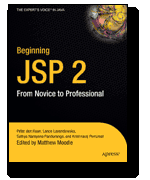
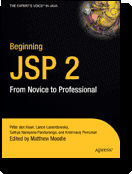
Crop drop shadows from book cover thumbnails
The old renders carried a pre-transparency-era drop shadow that
clashed with the site's flat look. Crop each cover to its hard edge
(matching the original un-shadowed GIF dimensions) and swap the CSS
box-shadow for a thin rule border consistent with the rest of the
page.

diff --git a/index.html b/index.html
@@ -226,21 +226,21 @@
 
     <ul class="works">
       <li>
-        <img class="works__cover" src="cover-jsp2.png" alt="" width="150" height="180" loading="lazy">
+        <img class="works__cover" src="cover-jsp2.png" alt="" width="132" height="174" loading="lazy">
         <div>
           <h3>Beginning JSP 2.0</h3>
           <p>Apress, 2004. Co-authored.</p>
         </div>
       </li>
       <li>
-        <img class="works__cover" src="cover-java-networking.png" alt="" width="150" height="180" loading="lazy">
+        <img class="works__cover" src="cover-java-networking.png" alt="" width="119" height="150" loading="lazy">
         <div>
           <h3>Beginning Java Networking</h3>
           <p>Wrox, 2001. Co-authored.</p>
         </div>
       </li>
       <li>
-        <img class="works__cover" src="cover-thesis.png" alt="" width="150" height="180" loading="lazy">
+        <img class="works__cover" src="cover-thesis.png" alt="" width="106" height="151" loading="lazy">
         <div>
           <h3><a href="thesis.pdf">Aspects of QED renormalization in anti-de Sitter space</a></h3>
           <p>Doctoral thesis. Nijmegen University Press, 2001. <a href="thesis.pdf">Download PDF</a>.</p>

diff --git a/styles.css b/styles.css
@@ -284,7 +284,7 @@ main{
   flex:none;
   width:2.6rem;
   height:auto;
-  box-shadow:0 1px 3px rgba(0,0,0,.25);
+  border:1px solid var(--rule);
 }
 .works h3{
   font-family:var(--serif);
